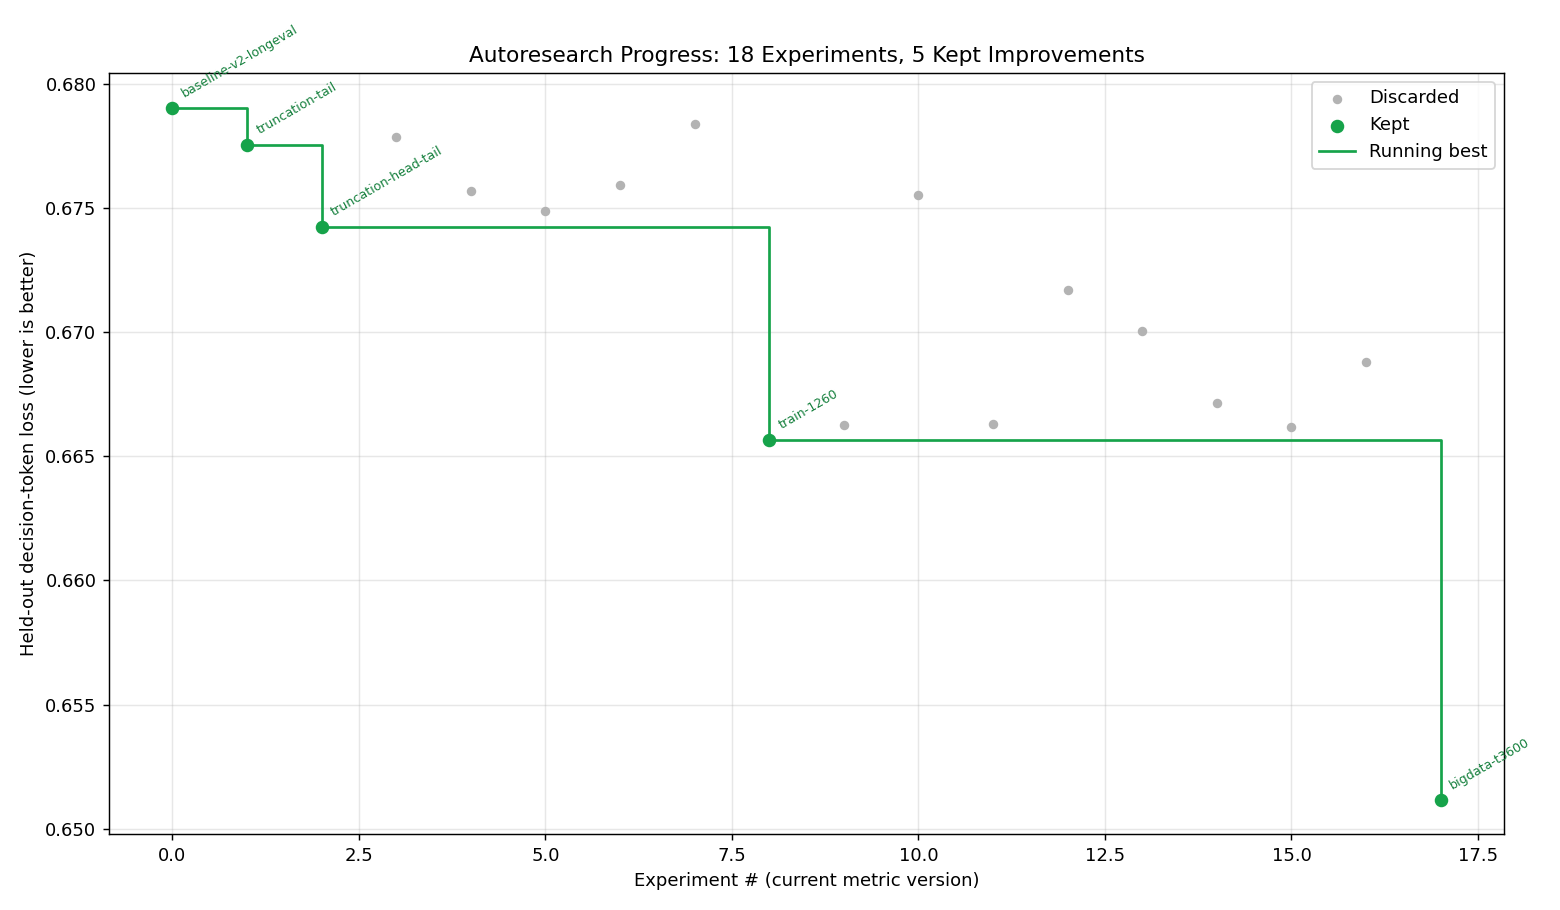
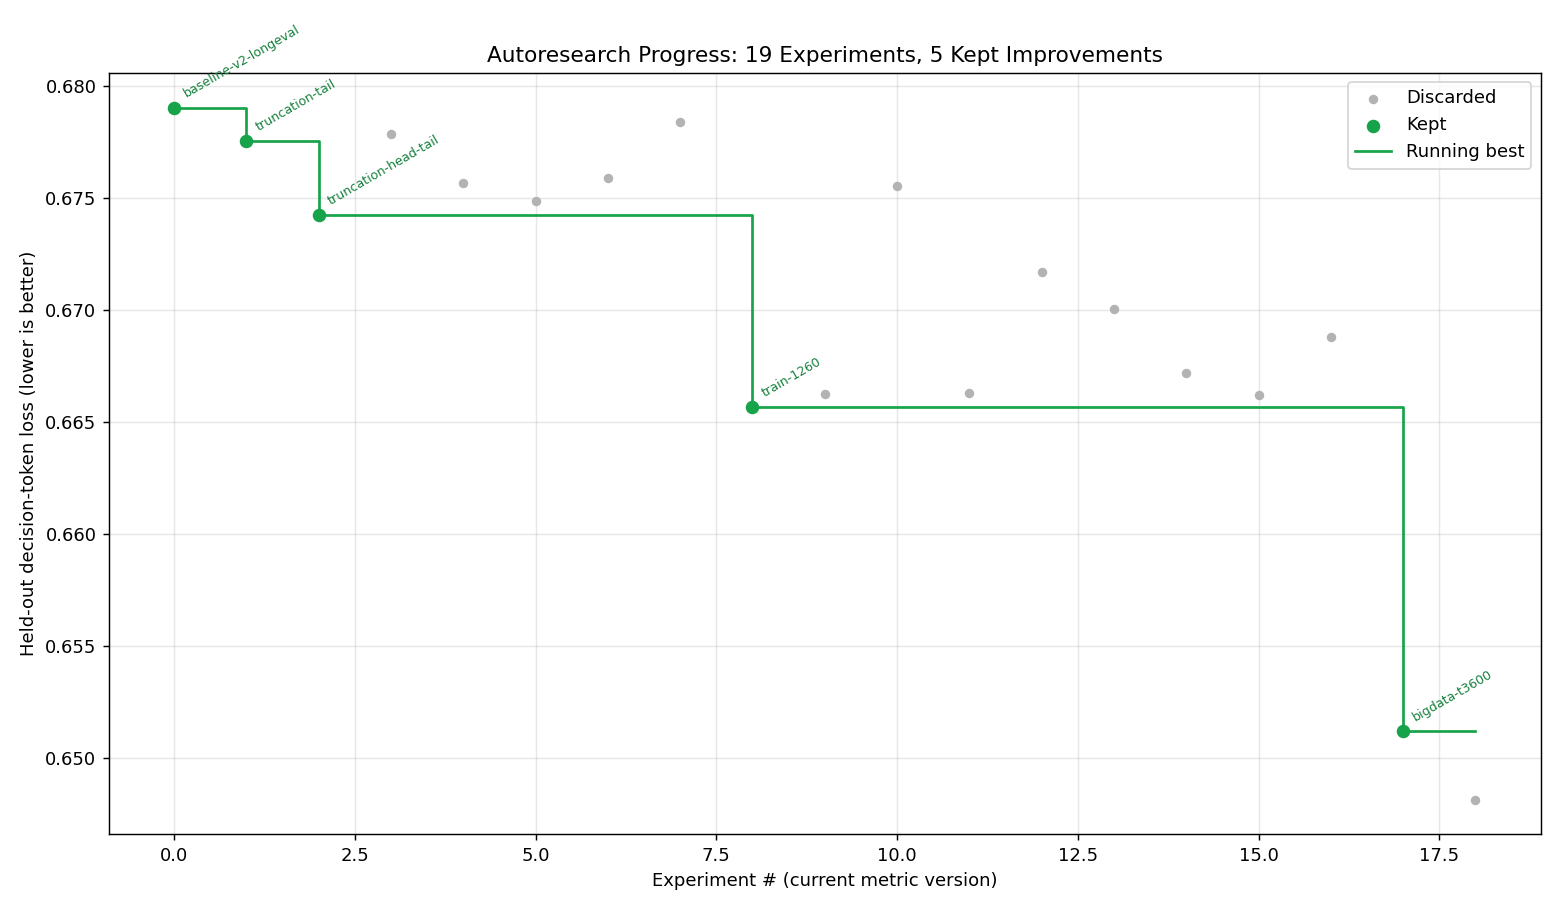
Step-change CONFIRMED 2-seed: 0038 seed43=0.6481 ~ 0037 seed42=0.6512 (both << 0.6657)
The data+compute step-change to ~0.650 is real and seed-robust (spread 0.003 < noise).
0039 (train5400) + 0040 (SPT) running; next compute step queued adaptively on 0039.

diff --git a/EXPERIMENTS.md b/EXPERIMENTS.md
@@ -50,5 +50,6 @@ decision-loss curve).
 | 0035 | bigdata-t1260 | SCALE-UP: train on the 9.1k long-heavy slice (4.7k long, vs pilot 2730/1045) at train_s... | 0.66878 | decision_loss_v2 |  | 91 | 1267.6 |
 | 0036 | bigdata-t2400 | Scale compute on big data: train_seconds 2400 (~40min). More steps to actually traverse... | timeout | full_seq |  |  |  |
 | 0037 | bigdata-t3600 | Flagship scale run: big data + train_seconds 3600 (~1hr, ~270 steps). Find the data+com... | 0.65118 | decision_loss_v2 | ✅ | 258 | 3600.4 |
+| 0038 | bigdata-seed43 | 2-seed confirm of the 0037 step-change (big-data@3600=0.6512, -0.0145): same config, se... | 0.64813 | decision_loss_v2 |  | 260 | 3609.9 |
 
-_37 experiments logged; 16 on the v1 (head@8192) curve, 18 on the v2 (long-horizon, to 16384) curve, 15 kept improvements total._
+_38 experiments logged; 16 on the v1 (head@8192) curve, 19 on the v2 (long-horizon, to 16384) curve, 15 kept improvements total._

diff --git a/RESEARCH_LOG.md b/RESEARCH_LOG.md
@@ -354,4 +354,12 @@ scaling result — fixed (timeout 9000). On the re-run:
   caveat: the held-out proxy has no SPT spans, so its benefit here may be modest even if it
   improves real goal-tracking.
 
+### Step-change CONFIRMED (2-seed)
+- **0038** (0037 config, seed 43): **0.64813** vs 0037's 0.65118 (seed 42) — spread 0.003,
+  within noise, and both far below the pre-step 0.6657. **The data+compute step-change to
+  ~0.650 is real and seed-robust.** (Loop kept 0037 as best: 0038's edge < 0.004 margin.)
+  Per bucket both seeds agree (long ~0.658, med ~0.624, short ~0.73).
+- 0039 (train5400) / 0040 (SPT) still running. Next compute step queued adaptively once 0039
+  shows whether scaling continues past 258 steps (1 epoch ≈ 1141 steps, so likely headroom).
+
 <!-- next entries appended at each steering check-in -->
